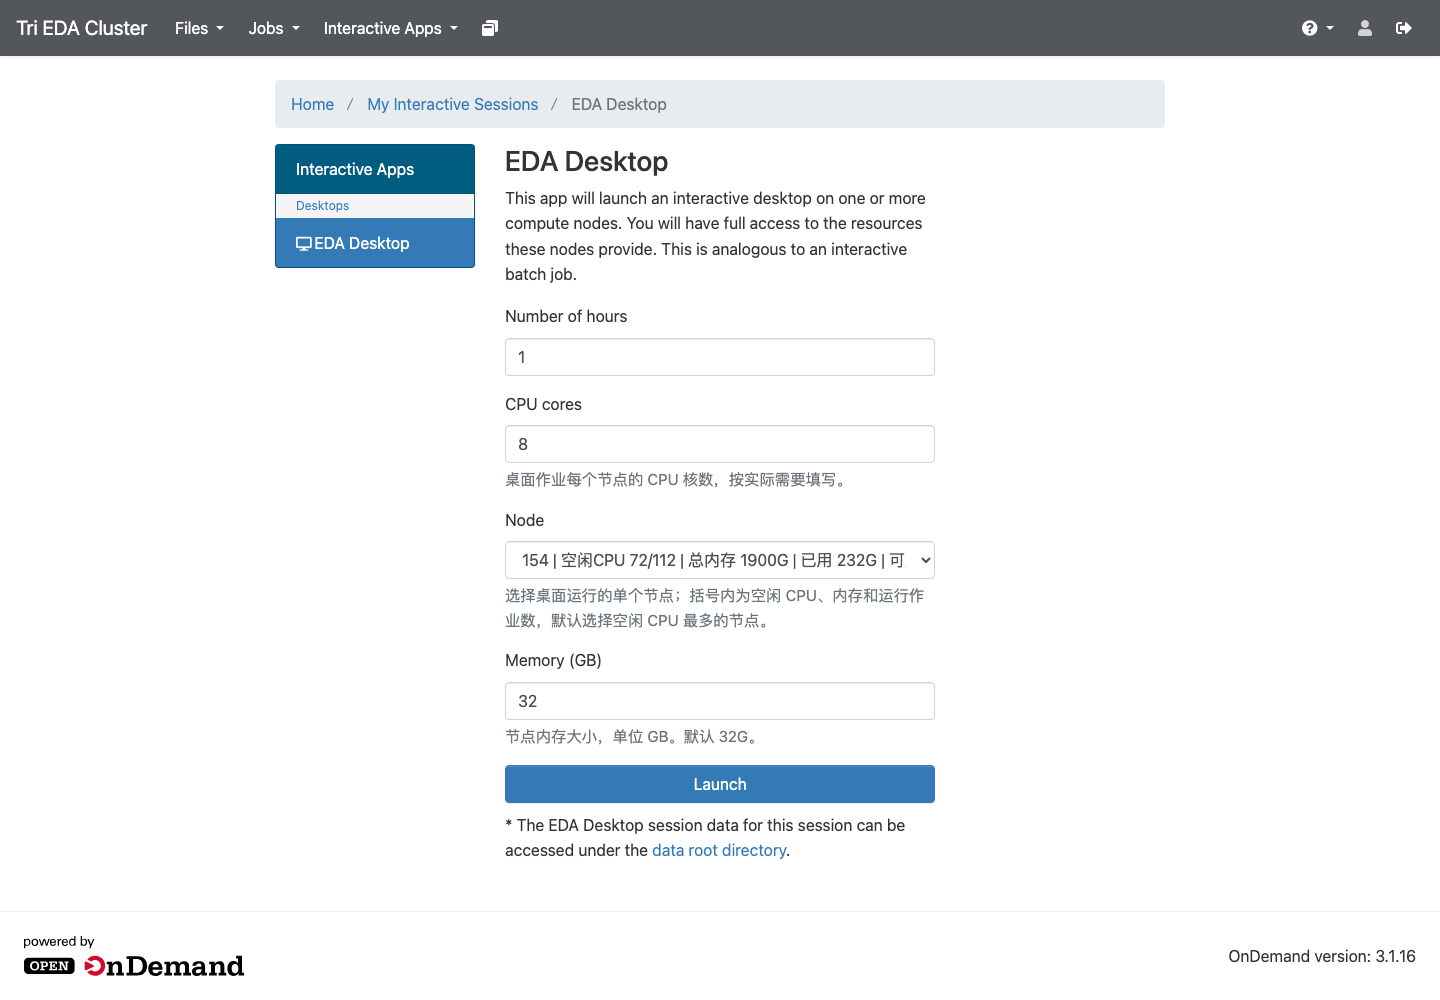
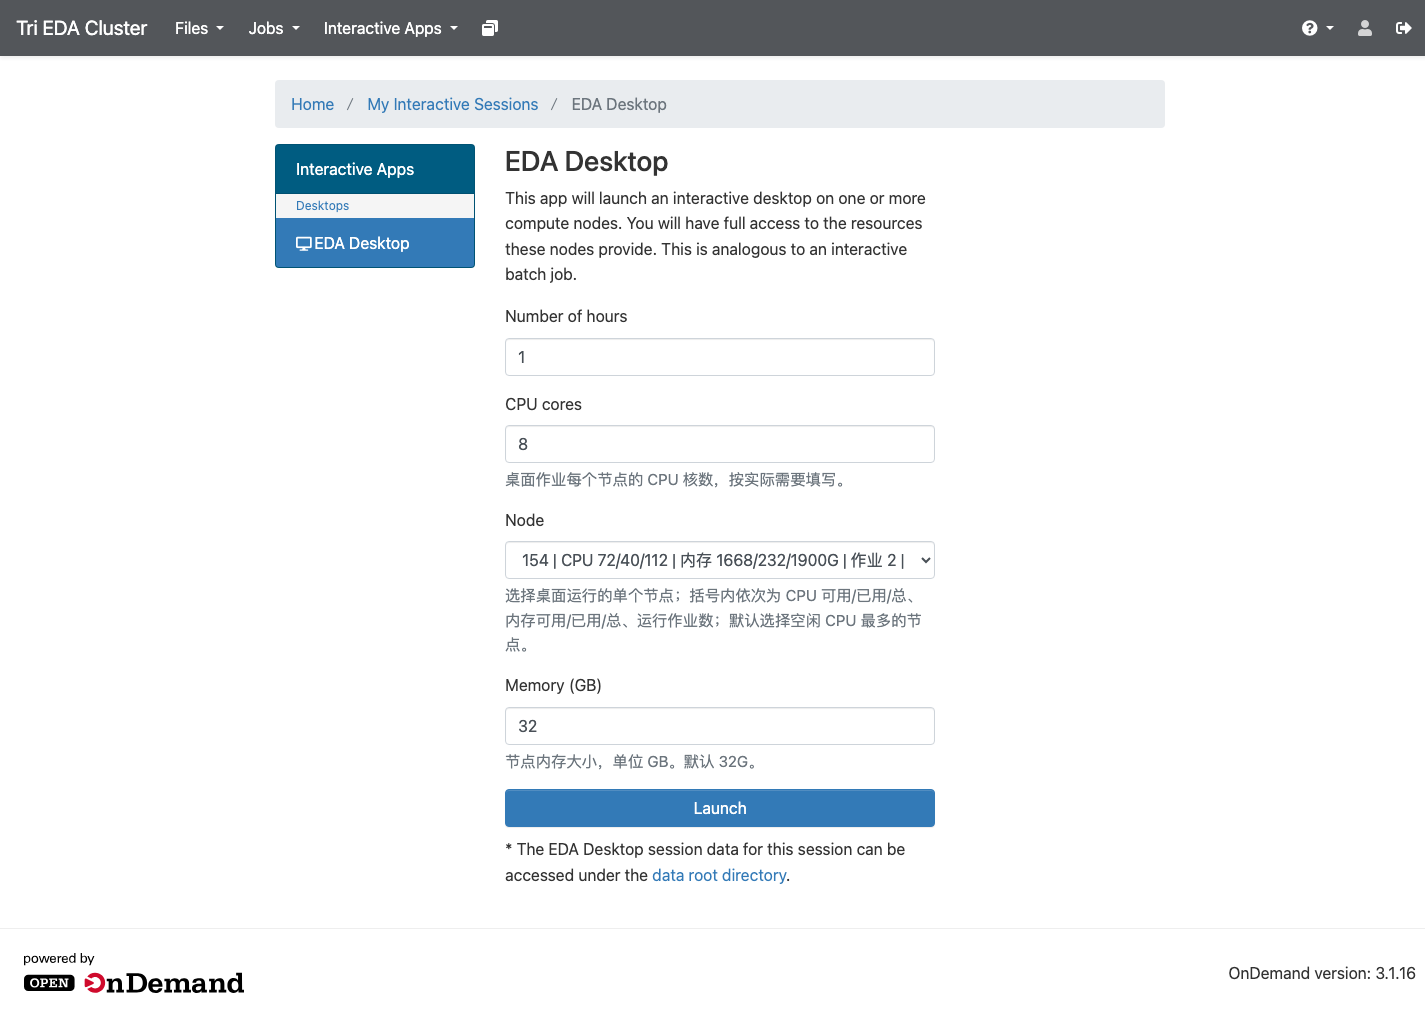
feat: show CPU available/used/total in OOD node list

diff --git a/ood/docs/Slurm与OOD用户操作手册.md b/ood/docs/Slurm与OOD用户操作手册.md
@@ -213,16 +213,15 @@ VPN 场景先按第 2.2 节通过堡垒机进入。
 |---|---|---|
 | Number of hours | 桌面最长运行时间 | 1 |
 | CPU cores | 本节点申请的 CPU 核数；默认 4，桌面内启动的 EDA 工具可使用这些核 | 4 |
-| Node | 选择 150-155；下拉框显示空闲 CPU/内存/作业数，默认选空闲 CPU 最多的节点 | 151 |
+| Node | 选择 150-155；下拉框显示 CPU 可用/已用/总、内存可用/已用/总、作业数，默认选空闲 CPU 最多的节点 | 151 |
 | Memory (GB) | 本节点申请内存，单位 GB | 32 |
 
 Node 下拉框示例：
 
-    151 | 空闲CPU 16/112 | 总内存 1900G | 已用 1200G | 可用 700G | 作业 3 | MIXED
+    151 | CPU 16/96/112 | 内存 1300/600/1900G | 作业 3 | MIXED
 
-- **总**：节点总内存
-- **已用**：已分配内存
-- **可用**：还能分配给新作业
+- **CPU**：可用/已用/总核数
+- **内存**：可用/已用/总容量，单位 G
 - **作业**：当前运行作业数
 - **IDLE/MIXED**：节点空闲/部分占用
 

diff --git a/ood/docs/图文用户指南.md b/ood/docs/图文用户指南.md
@@ -76,20 +76,19 @@
 |---|---|---|
 | **Number of hours** | 桌面最长运行时间 | 1 |
 | **CPU cores** | 本节点申请的 CPU 核数 | 4 |
-| **Node** | 选择单个计算节点；下拉框显示空闲 CPU/内存/作业数，默认空闲 CPU 最多 | 151 |
+| **Node** | 选择单个计算节点；下拉框显示 CPU/内存可用/已用/总和作业数 | 151 |
 | **Memory (GB)** | 该节点申请的内存，单位 GB | 32 |
 
 Node 下拉框显示格式：
 
-    151 | 空闲CPU 16/112 | 总内存 1900G | 已用 1200G | 可用 700G | 作业 3 | MIXED
+    151 | CPU 16/96/112 | 内存 1300/600/1900G | 作业 3 | MIXED
 
 含义：
 
 | 字段 | 含义 |
 |---|---|
-| 总 | 节点总内存 |
-| 已用 | 已被 Slurm 分配的内存 |
-| 可用 | 还能分配给新作业的内存 |
+| CPU | 可用/已用/总核数 |
+| 内存 | 可用/已用/总容量，单位 G |
 | 作业 | 当前节点上运行中的作业数 |
 | IDLE / MIXED | 节点空闲 / 部分占用 |
 

diff --git a/ood/docs/变更记录.md b/ood/docs/变更记录.md
@@ -18,7 +18,7 @@
 - 左上角标题改为 `Tri EDA Cluster`
 - Desktop 表单取消 Account 显示和填写，作业自动使用默认账户 staff
 - Desktop 表单增加 CPU cores，提交 --cpus-per-task
-- Node 下拉框增加空闲 CPU，默认选择空闲 CPU 最多的节点
+- Node 下拉框同时显示 CPU 可用/已用/总、内存可用/已用/总，默认选择空闲 CPU 最多的节点
 - 恢复 Web Shell 显示（放入 Jobs 菜单）
 - 恢复 Files 上传能力，关闭 Files 下载（OOD_DOWNLOAD_ENABLED=false）
 - 隐藏 Clusters 导航；Files 保留上传，关闭下载

diff --git a/ood/README.md b/ood/README.md
@@ -7,7 +7,7 @@
 - 浏览器登录 OOD，Keycloak OIDC 单点登录
 - Interactive Apps → **EDA Desktop**
 - 用户选择 **150 / 151 / 152 / 153 / 154 / 155** 单个节点
-- 下拉菜单显示节点：空闲 CPU、总内存、已用、可用、运行作业数、状态
+- 下拉菜单显示节点：CPU 可用/已用/总、内存可用/已用/总、运行作业数、状态
 - 默认选择空闲 CPU 最多的节点，避免默认落到满载节点
 - 用户填写 **CPU cores**，提交自动转成 `--cpus-per-task=<N>`
 - 用户填写 **Memory (GB)**，提交自动转成 `--mem=<N>G`

diff --git a/ood/docs/用户手册.md b/ood/docs/用户手册.md
@@ -22,7 +22,7 @@ Interactive Apps → EDA Desktop
 |---|---|
 | Number of hours | 桌面最长运行小时数 |
 | CPU cores | 节点 CPU 核数，默认 4 |
-| Node | 选择 150-155；下拉框显示空闲 CPU、内存、作业数和状态 |
+| Node | 选择 150-155；下拉框显示 CPU/内存可用、已用、总数及作业数 |
 | Memory (GB) | 该节点内存，单位 GB，例如 32 |
 
 > Account 已取消填写，作业自动使用用户默认账户。
